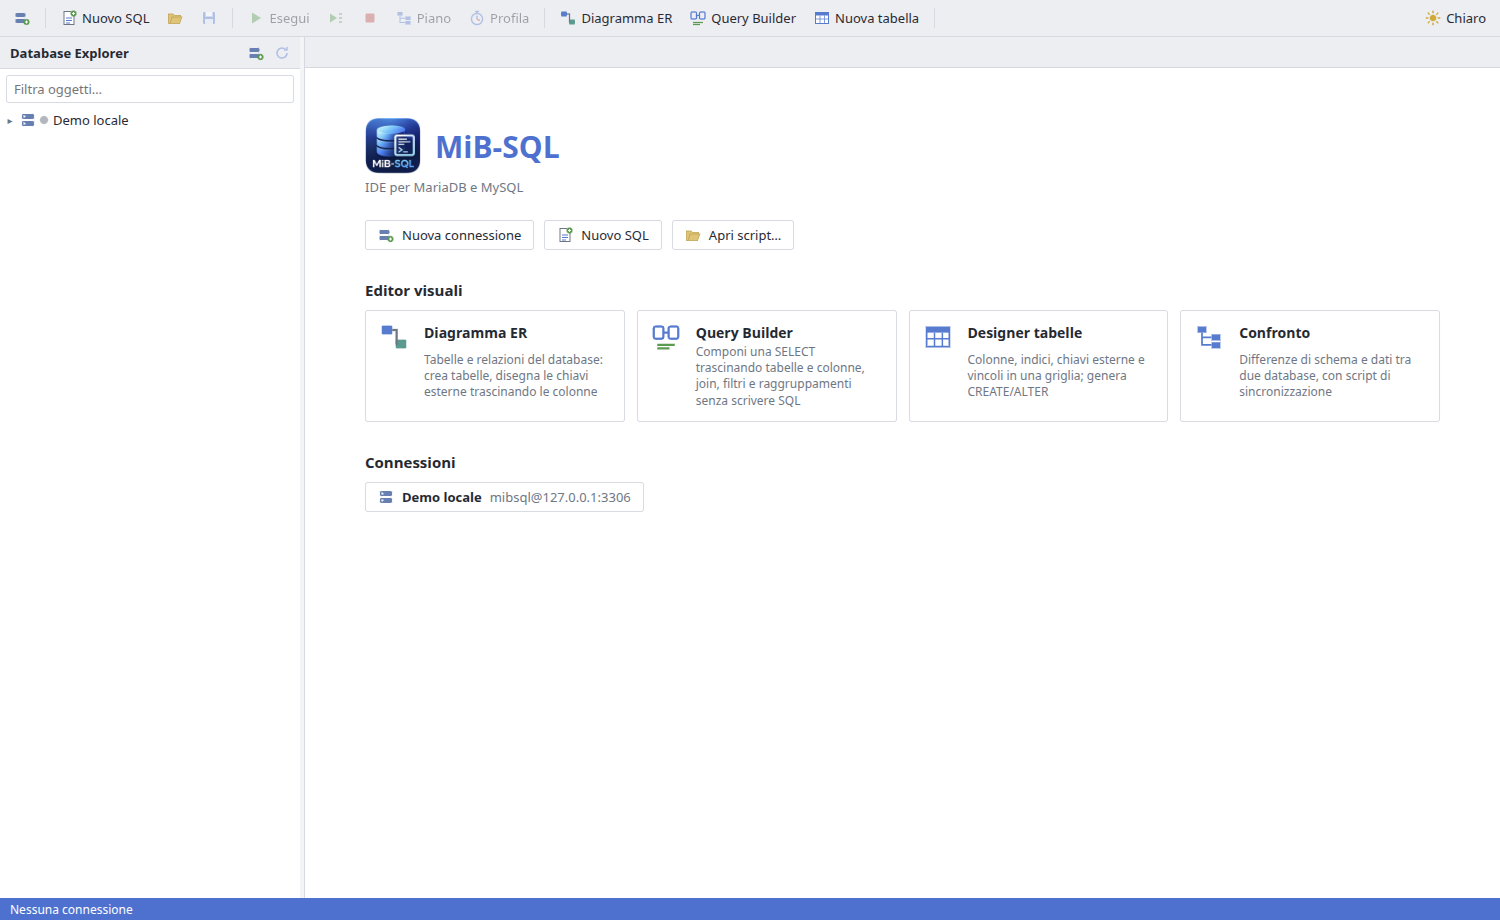
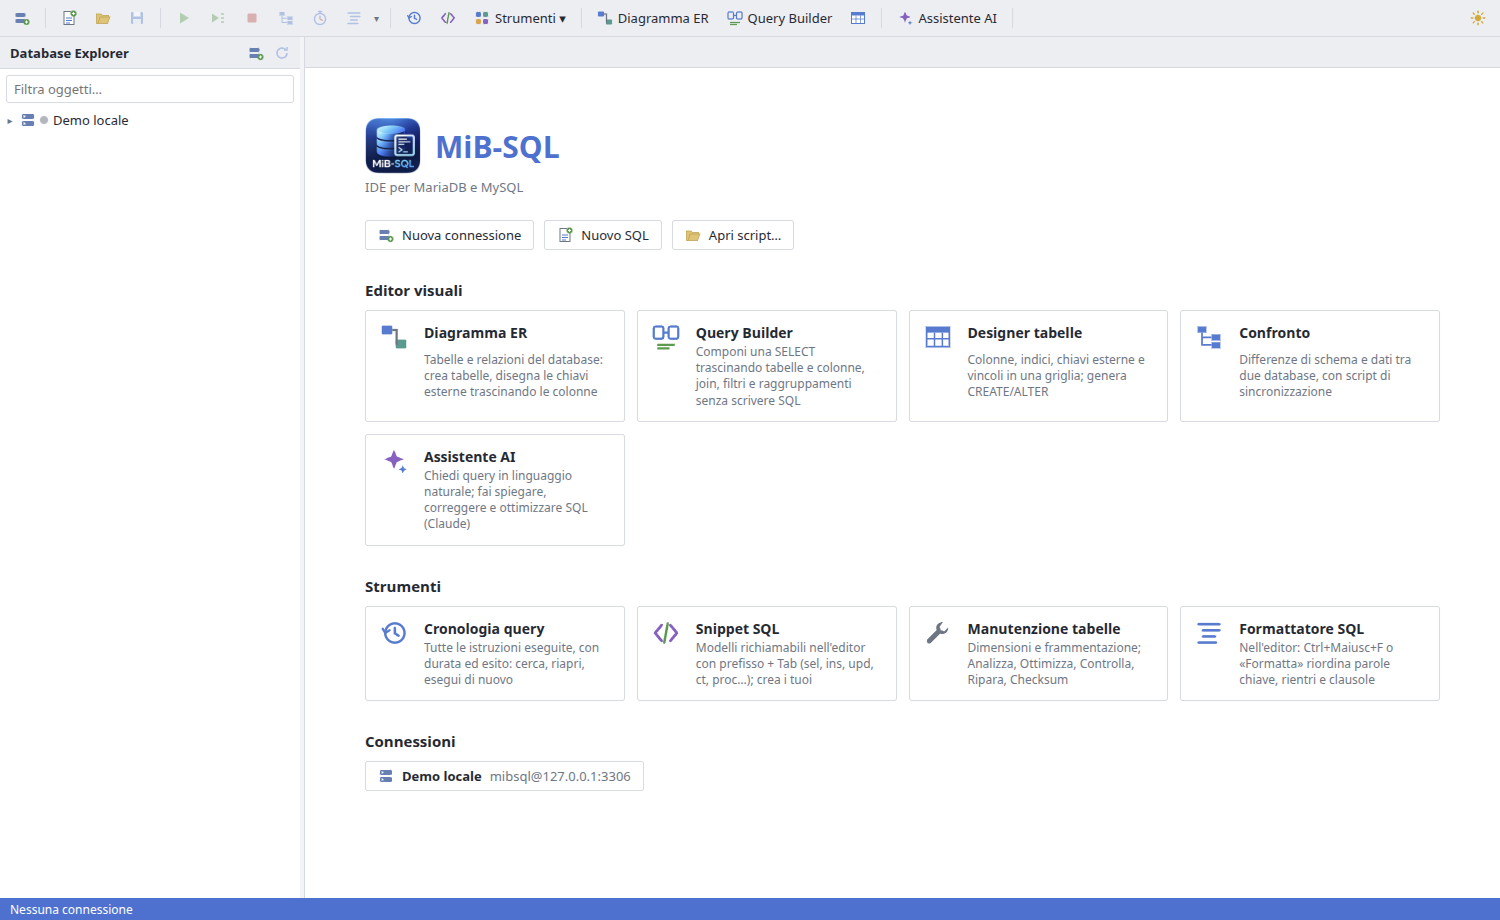
docs: v1.2 features, screenshots, version 1.2.0

diff --git a/README.md b/README.md
@@ -8,7 +8,7 @@ IDE educativo per **MariaDB e MySQL** su Linux, ispirato a [dbForge Studio](http
 
 ![Database Explorer ed editor SQL](docs/screenshot-1.png)
 
-## Funzioni (v1.1)
+## Funzioni (v1.2)
 
 **Connessioni**
 - Profili salvati con colore d'ambiente (sviluppo/test/produzione: tinge scheda e barra di stato)
@@ -29,6 +29,22 @@ IDE educativo per **MariaDB e MySQL** su Linux, ispirato a [dbForge Studio](http
 - Splitter compatibile con il client `mariadb`: stringhe, commenti, `DELIMITER` per procedure e trigger
 - Errori sottolineati nell'editor alla riga indicata dal server; warning anche per le SELECT
 - Schede ripristinate al riavvio, apri/salva `.sql`, `mib-sql script.sql` da terminale
+
+**Formattatore, cronologia e snippet**
+- **Formatta** (Ctrl+Maiusc+F, pulsante in toolbar o menu del tasto destro) sullo script o sulla selezione, annullabile: clausole a capo, una colonna per riga, AND/OR rientrati, subquery e CTE indentate, definizioni di CREATE TABLE e specifiche di ALTER TABLE una per riga; opzioni (▾): parole chiave maiuscole/minuscole/invariate, rientro 2 o 4, elenchi su una riga
+- Lavora sui token: stringhe, identificatori tra backtick, commenti e `COUNT (*)`/`x'0A'` restano identici; i nomi di tabelle e alias non cambiano maiuscole (su Linux contano); i corpi di procedure, funzioni, trigger ed eventi mantengono la loro impaginazione
+- **Cronologia query** (toolbar, Strumenti o pagina iniziale): ogni istruzione eseguita con data, durata, righe o errore, connessione e database; ricerca per parole, filtri per connessione ed esito, riapri o riesegui, elimina e svuota; password di CREATE/ALTER USER mascherate, registrazione disattivabile; resta sul computer (ultime 5.000)
+- **Snippet SQL**: prefisso + Tab nell'editor (sel, ins, upd, del, gb, dup, cte, ct, fk, proc, func, trig…) con segnaposti da compilare; gestore per crearne e modificarne, «Salva selezione come snippet…» dal tasto destro
+
+**Viste, routine, trigger ed eventi**
+- Doppio clic (o «Modifica…») nell'Explorer apre la definizione in un editor: **Applica** (F5 o Ctrl+S) la salva sul server con CREATE OR REPLACE (MariaDB, viste MySQL) oppure DROP + CREATE con ripristino automatico della versione precedente se la nuova non compila (MySQL)
+- «Nuova vista/procedura/funzione/trigger/evento…» dalle cartelle dell'Explorer (trigger anche dal tasto destro sulla tabella), rinomina con proposta di eliminare l'oggetto col vecchio nome, Ricarica, Elimina; errori sottolineati alla riga giusta
+- Avvisi: DEFINER di un altro account (con «Usa il mio utente»), scheduler degli eventi spento; viste mostrate formattate
+- **Esegui con parametri…** per procedure e funzioni: valori per i parametri IN/INOUT (NULL, espressioni), variabili per gli OUT, script CALL/SELECT in un nuovo documento
+
+**Manutenzione tabelle**
+- Strumenti › Manutenzione tabelle o tasto destro su database/tabella: dimensioni di dati e indici, spazio libero e frammentazione, ordinabili
+- **Analizza** (anche con istogrammi su MariaDB), **Ottimizza**, **Controlla** (QUICK, EXTENDED, CHANGED…), **Ripara** (solo MyISAM/Aria/ARCHIVE/CSV), **Checksum**, una tabella alla volta con avanzamento e interruzione, NO_WRITE_TO_BINLOG facoltativo; messaggi del server spiegati
 
 **Risultati**
 - Griglia virtualizzata: le SELECT arrivano in streaming, fino a 50.000 righe in memoria con il totale esatto anche oltre; più resultset per script e per `CALL`
@@ -127,6 +143,16 @@ IDE educativo per **MariaDB e MySQL** su Linux, ispirato a [dbForge Studio](http
 
 ![Partizioni nel designer](docs/screenshot-18.png)
 
+![Formattatore SQL](docs/screenshot-19.png)
+
+![Editor di procedure](docs/screenshot-20.png)
+
+![Cronologia query](docs/screenshot-21.png)
+
+![Manutenzione tabelle](docs/screenshot-22.png)
+
+![Snippet SQL](docs/screenshot-23.png)
+
 ![Piano di esecuzione](docs/screenshot-3.png)
 
 ## Installazione
@@ -157,6 +183,9 @@ Su Ubuntu 24.04 serve `libfuse2t64` per avviare le AppImage.
 | Ctrl+E | Piano di esecuzione (`EXPLAIN EXTENDED`) |
 | Ctrl+Maiusc+P | Profila l'istruzione corrente |
 | Maiusc+F5 | Interrompi |
+| Ctrl+Maiusc+F | Formatta script o selezione |
+| prefisso + Tab | Inserisci uno snippet |
+| F5 / Ctrl+S (editor oggetti) | Applica la definizione al server |
 | Ctrl+N / Ctrl+O / Ctrl+S / Ctrl+W | Nuovo, apri, salva, chiudi documento |
 | Ctrl+Maiusc+N | Nuova connessione (fuori dalla griglia) |
 | Ctrl+Tab | Documento successivo |
@@ -169,7 +198,7 @@ Su Ubuntu 24.04 serve `libfuse2t64` per avviare le AppImage.
 ```bash
 npm install
 npm run dev        # Vite (porta 5174) + Electron
-npm test           # splitter (anche a flusso), griglia, export, designer (partizioni comprese), ER, query builder, confronto, import, assistente
+npm test           # splitter (anche a flusso), formattatore, griglia, export, designer (partizioni comprese), ER, query builder, confronto, import, assistente, editor oggetti
 npm run typecheck
 npm run dist       # AppImage e .deb in release/ (npm run dist:deb solo .deb)
 ```
@@ -182,7 +211,7 @@ mysql -u root -p < scripts/demo.sql
 
 ## Roadmap
 
-Completata: le otto fasi previste (connessioni ed editor, griglia e modifica dati, designer, ER, confronto, backup/import, profiler/monitor/utenti) più Query Builder, tema scuro, partizioni, confronto dati a memoria costante, pacchetto .deb e assistente AI.
+Completata: le otto fasi previste (connessioni ed editor, griglia e modifica dati, designer, ER, confronto, backup/import, profiler/monitor/utenti) più Query Builder, tema scuro, partizioni, confronto dati a memoria costante, pacchetto .deb e assistente AI; in v1.2 formattatore, cronologia, snippet, editor di oggetti e manutenzione tabelle.
 
 
 ## Limiti noti
@@ -192,6 +221,8 @@ Completata: le otto fasi previste (connessioni ed editor, griglia e modifica dat
 - Routine e trigger di altri utenti risultano illeggibili senza privilegi sul definer: confronto e backup li segnalano ma non possono copiarli
 - Le istruzioni DDL non sono transazionali: se una fallisce a metà, quelle precedenti restano applicate (designer e confronto lo segnalano e ricaricano lo stato dal server)
 - Designer: sottopartizioni solo in lettura; colonne spaziali in sola lettura nella griglia
+- Formattatore: i corpi di routine, trigger ed eventi ricevono solo le maiuscole delle parole chiave; le espressioni CASE e le liste tra parentesi restano su una riga
+- Editor oggetti su MySQL: senza CREATE OR REPLACE la modifica è DROP + CREATE (ripristinata in caso di errore), quindi i privilegi EXECUTE dati alla singola routine vanno riassegnati; con un DEFINER diverso dal proprio servono i privilegi SET USER/SET_USER_ID
 - Assistente AI: richiede una chiave API Anthropic (a pagamento); la conversazione resta solo per la sessione
 
 ## Licenza

diff --git a/CLAUDE.md b/CLAUDE.md
@@ -9,7 +9,7 @@ npm run dev         # Vite :5174 + Electron (VITE_DEV=1)
 npm run build       # renderer in dist/
 npm test            # node --test tests/*.test.cjs
 npm run typecheck   # tsc --noEmit (solo src/)
-npm run dist        # AppImage
+npm run dist        # AppImage + .deb
 ```
 
 ## Architettura
@@ -36,6 +36,7 @@ npm run dist        # AppImage
 - Assistente AI: `electron/assistant.cjs` (SDK `@anthropic-ai/sdk` 1.x, `client.beta.messages.stream`, `claude-opus-5-5` predefinito, effort esplicito, `fallbacks: "default"` + beta `server-side-fallback-2026-07-01` per Opus/Sonnet 5.5, errori per classe SDK, chiave in safeStorage o credenziali di sistema) + `src/assistant.ts` (SYSTEM_PROMPT, `schemaText`, `userMessage`, `parseBlocks`) + `components/AssistantPanel.tsx`. Conversazione append-only per documento (contenuto completo dell'assistente, blocchi thinking compresi), system con lo schema congelato a inizio chat (cache_control sullo schema): non modificare mai i turni già inviati. Test senza credenziali: server finto SSE su `ANTHROPIC_BASE_URL` (l'SDK 1.x manda la chiave d'ambiente come `Authorization: Bearer`).
 - Partizioni nel designer: `Partitioning` in TableDef, `partitionStatements` (PARTITION BY / REMOVE / DROP+ADD in coda / REORGANIZE), ognuna in un ALTER separato; sottopartizioni mai alterate.
 - Pacchetto: `npm run dist` produce AppImage e .deb (StartupWMClass `mib-sql`); il .deb è verificato con apt in un container ubuntu:24.04 + xvfb.
+- v1.2: `src/format.ts` (formattatore a token, puro: `tokenize`, `formatSql`, `signature`; mai cambiare le maiuscole di parole in posizione di nome tabella/alias; test di invarianza dei token e idempotenza in `tests/format.test.mjs`), opzioni in localStorage e provider Monaco in `editor.ts`. `electron/library.cjs`: cronologia (`history.jsonl`, append, compattata oltre 5.000) e snippet (`snippets.json`, assente = predefiniti; sintassi snippet Monaco, `\$` letterale); registrazione in `recordHistory` (actions.ts) con `maskPasswords`. Editor oggetti = documento SQL con `doc.obj` (`openObject`/`applyObject`/`dropObject`, ObjectBar): `electron/objects.cjs` (`header`, `statementOf`, OR REPLACE su MariaDB e viste, altrimenti DROP+CREATE con ripristino; connessione dedicata sul database). `src/routines.ts` (`callScript`) + CallDialog. `electron/maint.cjs` (stats da TABLES, operazioni una tabella alla volta, progress `task:progress`) + `Maint.tsx`. Le connessioni hanno `rowsAsArray: true` di default: per leggere per nome colonna passare `rowsAsArray: false`.
 - `src/theme.ts` — tema: `<html data-theme>` + variabili in `styles.css` (`:root` chiaro, `:root[data-theme="dark"]` scuro), temi Monaco `mibsql`/`mibsql-dark`, preferenza light/dark/system in localStorage; nei componenti usare sempre le variabili (`--panel`, `--input`, `--subtle`, `--line`…), mai colori fissi.
 - `src/components/ResultView.tsx` — barra filtri/modifiche/export sopra `ResultGrid`; modifiche in sospeso in `editsBySet` (WeakMap per ResultSet, store.ts). `runDoc`/`closeDoc` chiedono conferma se ci sono modifiche non applicate.
 - `src/actions.ts` — azioni documento (run, cancel, save, DDL, select top), persistenza schede in localStorage.
@@ -50,6 +51,7 @@ npm run dist        # AppImage
 - `MIBSQL_USERDATA=<dir>` usa un profilo separato (mai il profilo reale nei test).
 - `MIBSQL_SHOT=out.png MIBSQL_SCRIPT=script.js [MIBSQL_WAIT=ms]`: esegue lo script nel renderer, salva il valore restituito in `out.json`, cattura e chiude. Lo script usa `window.__mib = { useStore, actions, monaco }`.
 - `MIBSQL_SAVE_AS=<path senza estensione>` salta il dialog di salvataggio degli export.
+- `MIBSQL_CONFIRM=0,1,…` risponde alle conferme native in ordine (indice del pulsante) e le stampa su stdout.
 - Nei test UI: React 19 applica lo stato in un microtask, quindi tra eventi sintetici consecutivi (mousedown → contextmenu) serve un `await sleep()`.
 - DB di prova: `scripts/demo.sql` → `mibsql_demo` + utente `mibsql`/`mibsql` limitato a quel db. Non usare i db `r_lab_*` per i test.
 - Tunnel SSH verificato con container `mariadb:11.4` + `linuxserver/openssh-server` sulla stessa rete Docker.
